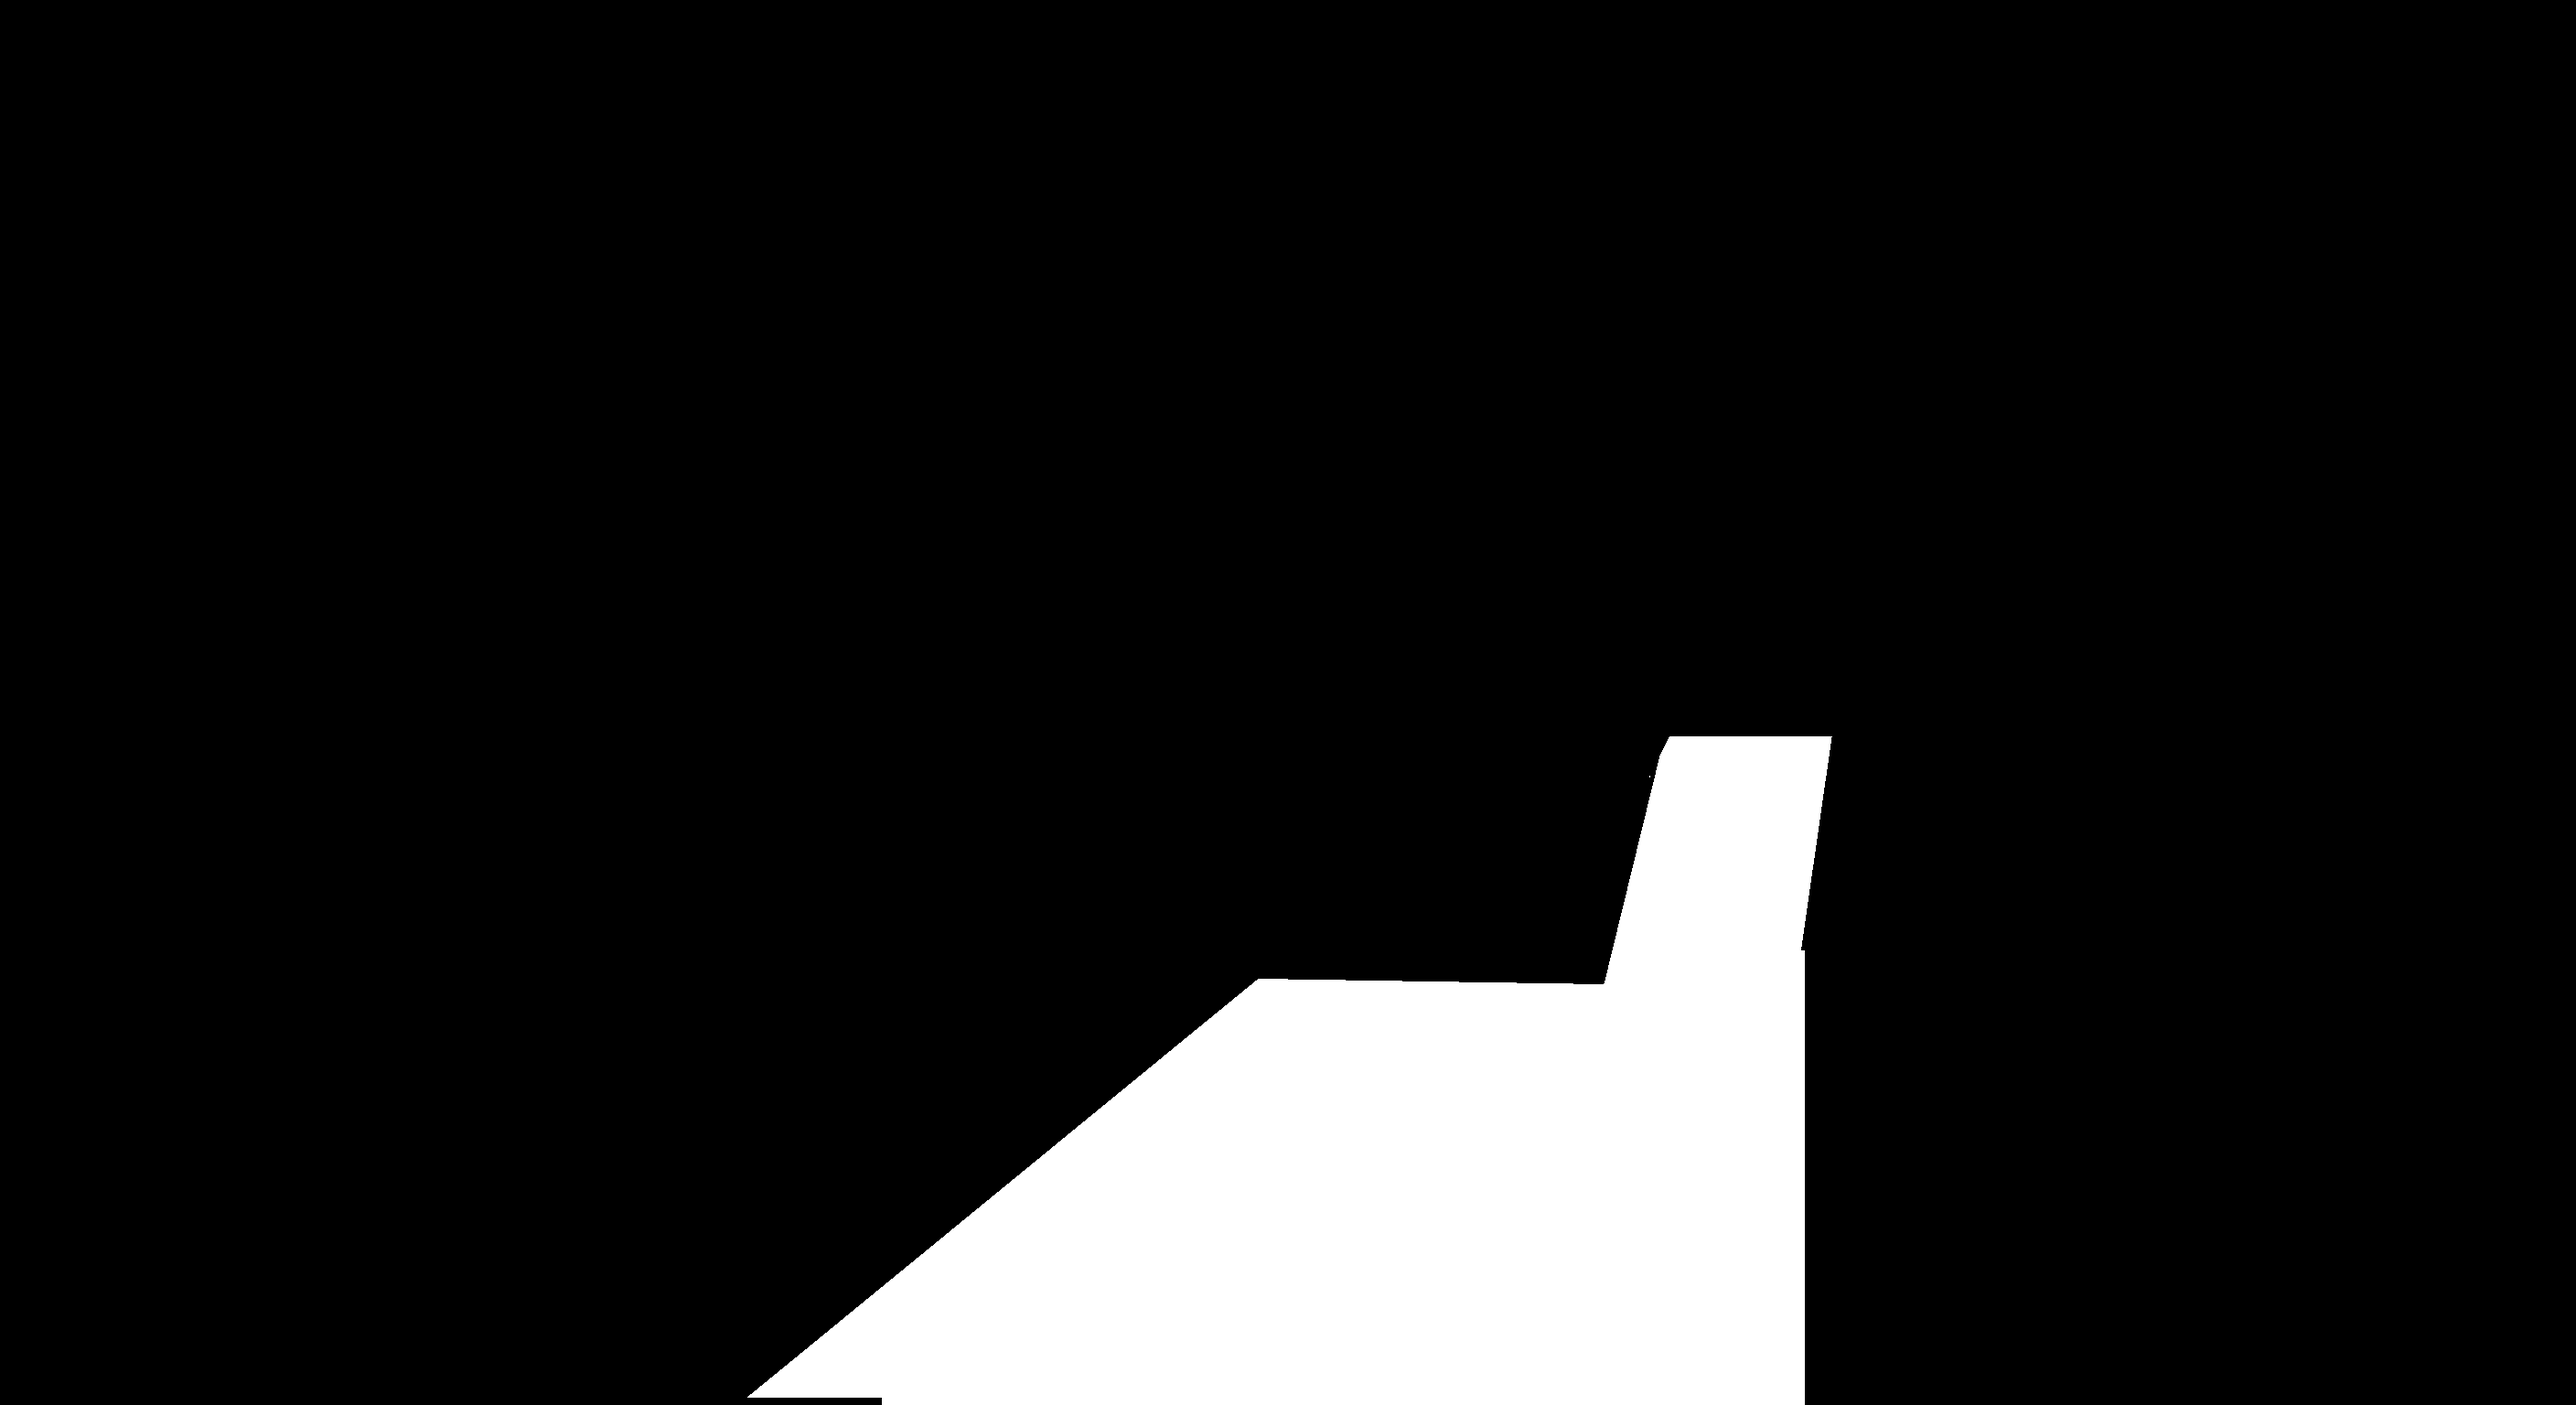
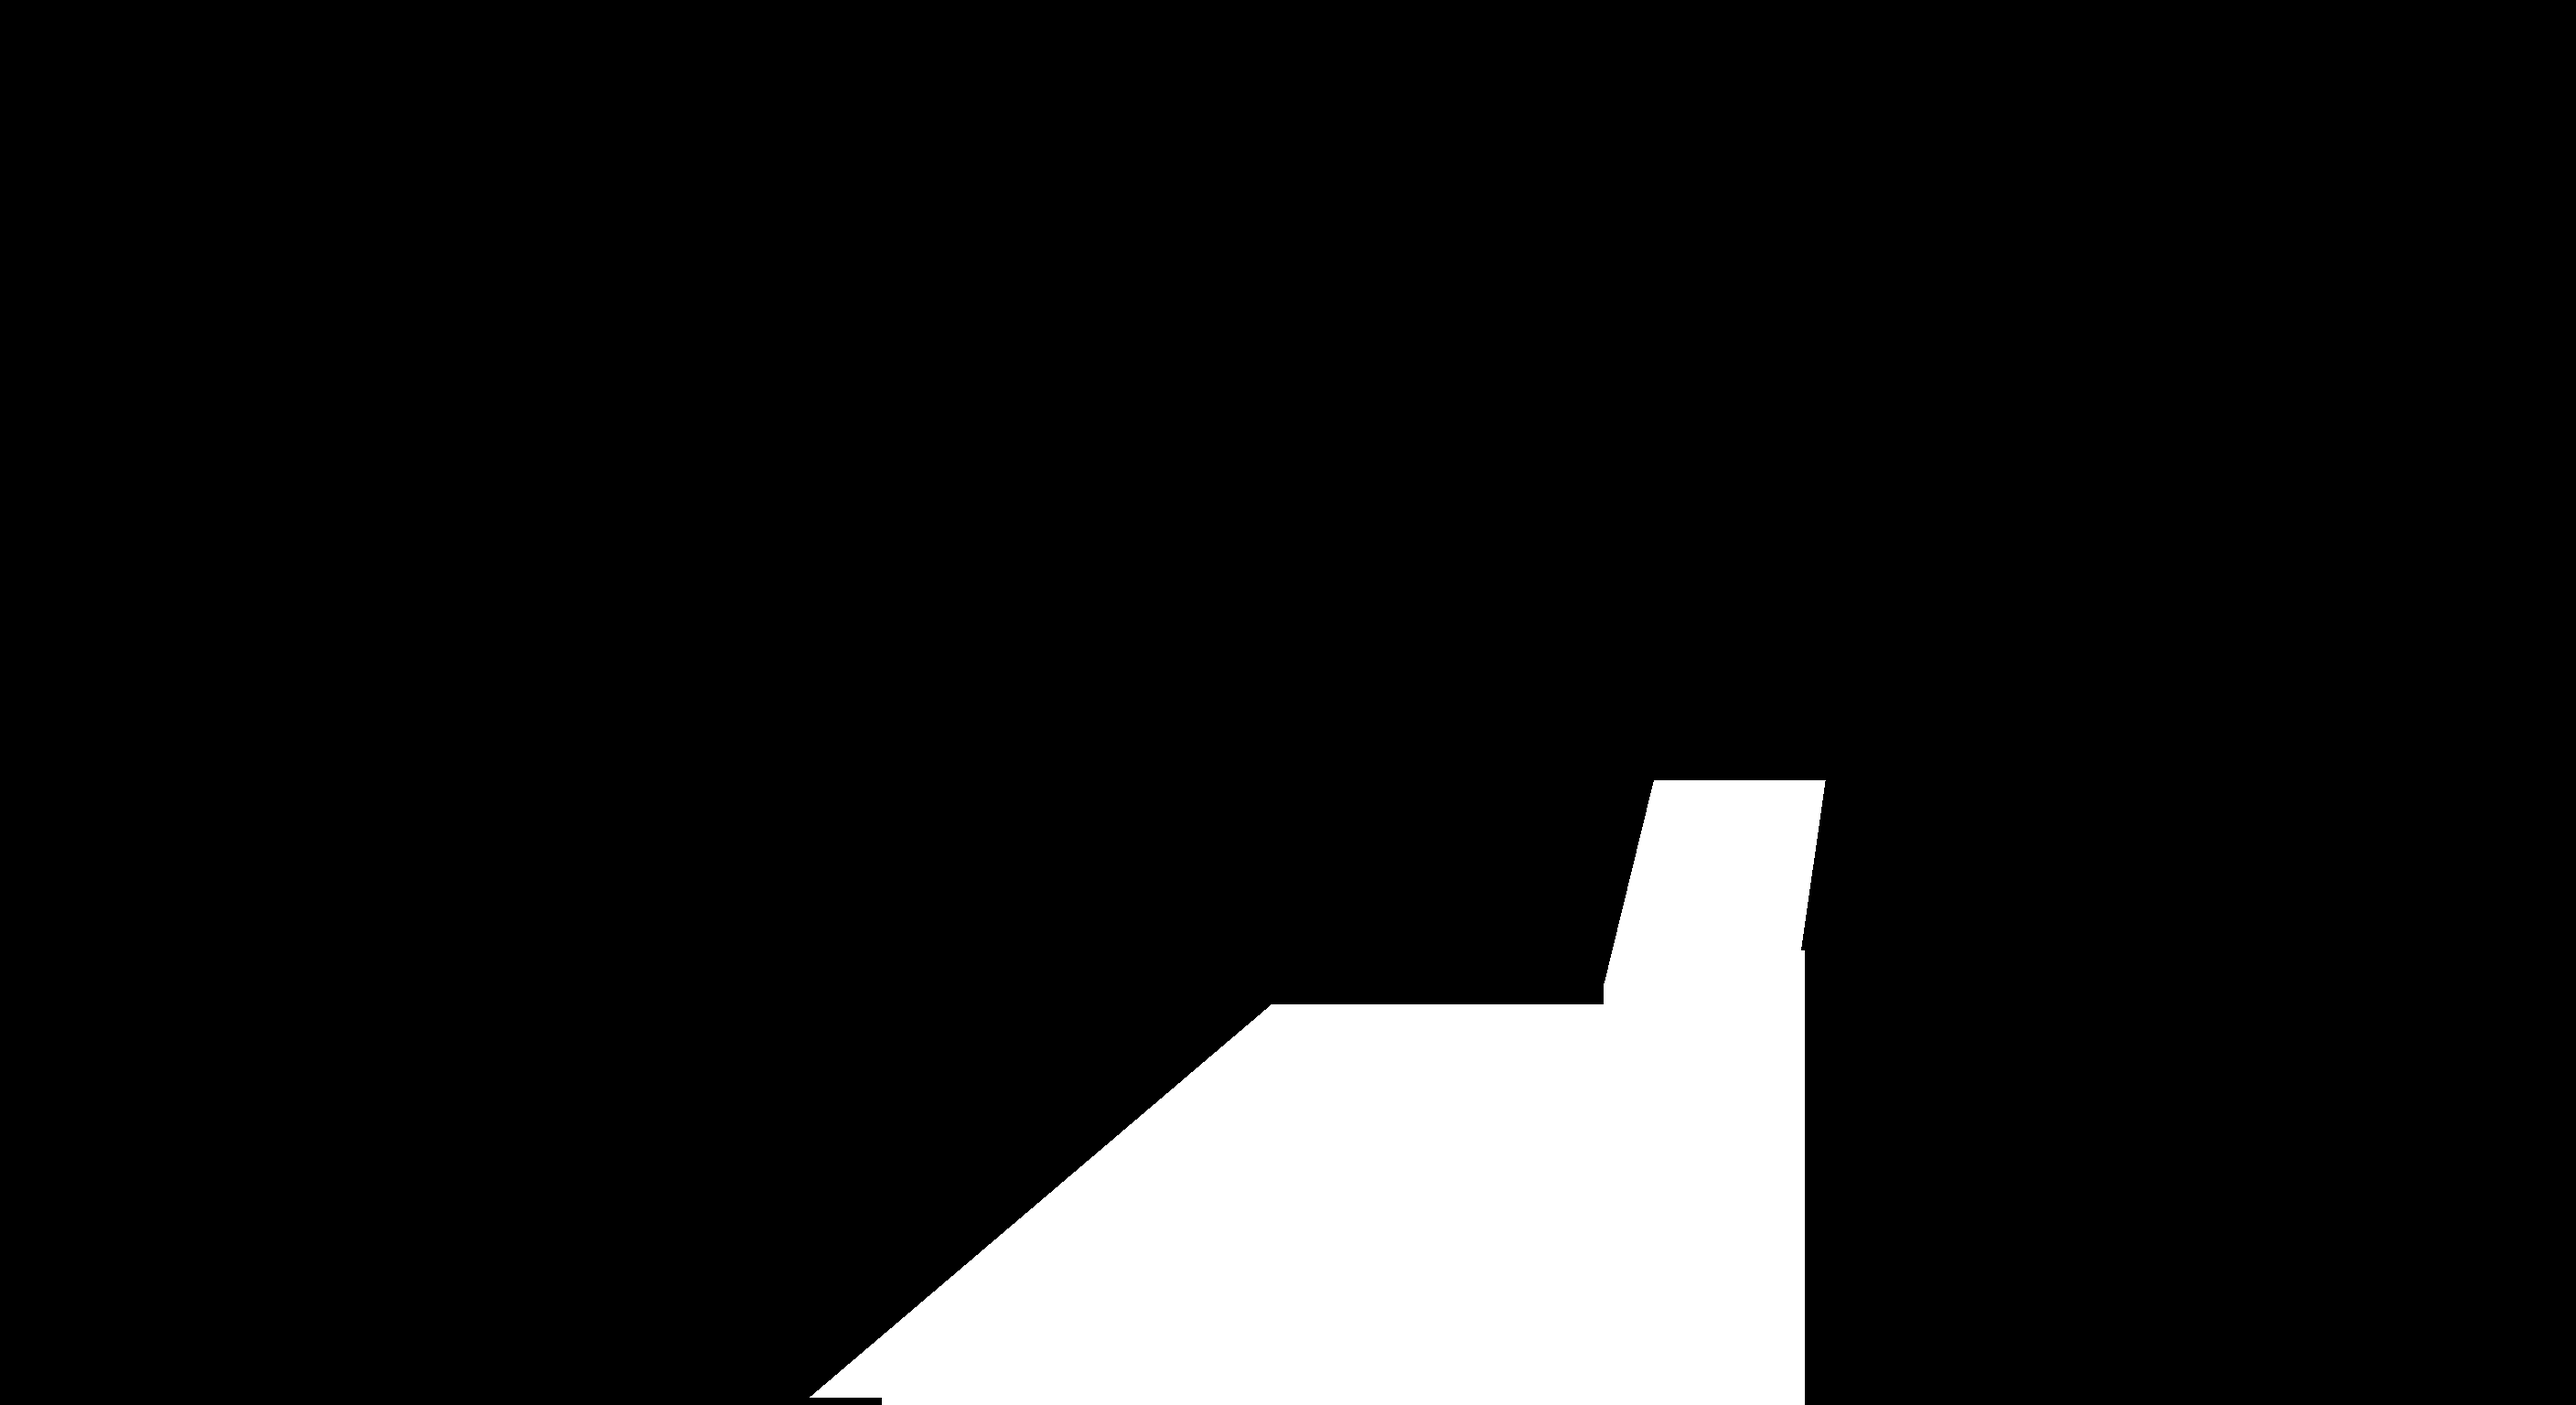
Pequeños ajustes

Changed region(s): [[0.2812, 0.6875, 0.625, 1.0], [0.625, 0.5, 0.7188, 0.5625]]

diff --git a/scenes/pulperia.ts b/scenes/pulperia.ts
@@ -13,7 +13,7 @@ export const pulperiaScene: Scene = {
   getScale: (y) => {
     const minY = 50;
     const maxY = 100;
-    const minScale = 0.55;
+    const minScale = 0.45;
     const maxScale = 1.1;
 
     let s = minScale + ((y - minY) / (maxY - minY)) * (maxScale - minScale);
@@ -389,7 +389,7 @@ export const pulperiaScene: Scene = {
       width: "6%",
       height: "10%",
       walkToX: 75,
-      walkToY: 80,
+      walkToY: 1,
       
       onLook: () => ({ 
         text: "/images/juego/heinrich-neutral.png|Un saco lleno de cebada. Los locales se la dan a los caballos, pero es oro puro para un cervecero." 

diff --git a/app/(public)/juego/capitulo-1/game.css b/app/(public)/juego/capitulo-1/game.css
@@ -130,7 +130,7 @@
 .galleta-sprite { 
   width: var(--galleta-frame-width); 
   height: var(--galleta-frame-height); 
-  background-image: url('/images/juego/galleta-idle.png'); 
+  background-image: url('/images/juego/galleta-idle.webp'); 
   background-repeat: no-repeat; 
   transform-origin: bottom center; 
 }

diff --git a/scenes/plaza.ts b/scenes/plaza.ts
@@ -14,7 +14,7 @@ export const plazaScene: Scene = {
   getScale: (y) => {
     const minY = 50; // El punto más lejano cerca del Cabildo/Recova
     const maxY = 100; // Primer plano
-    const minScale = 0.30;
+    const minScale = 0.20;
     const maxScale = 0.8;
 
     let dynamicScale =
